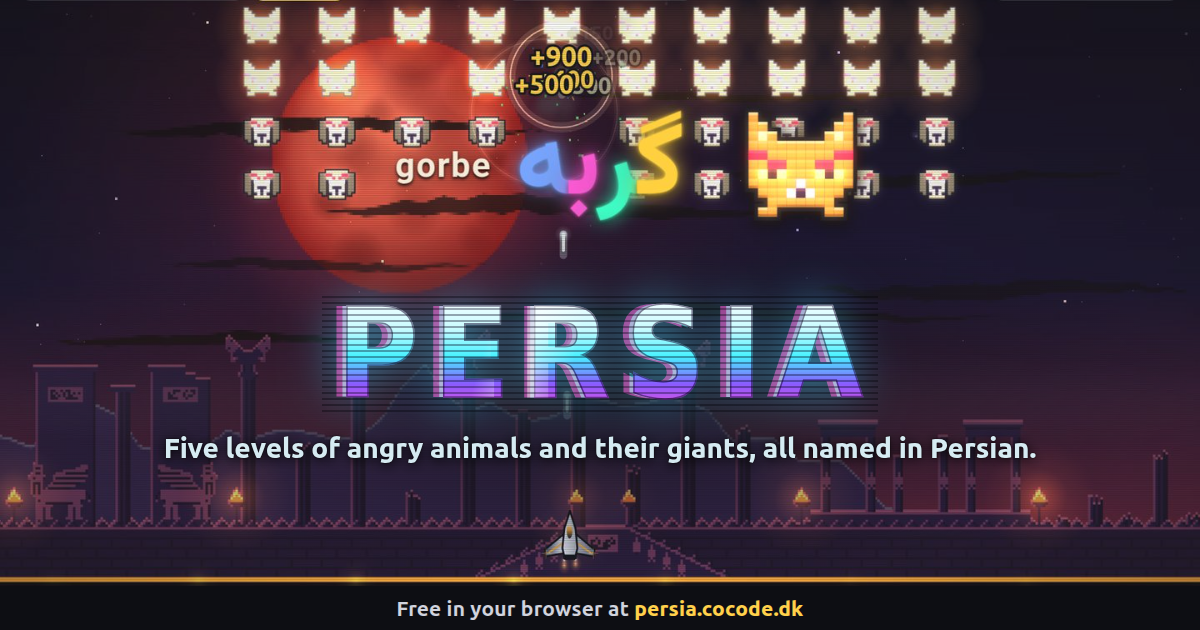
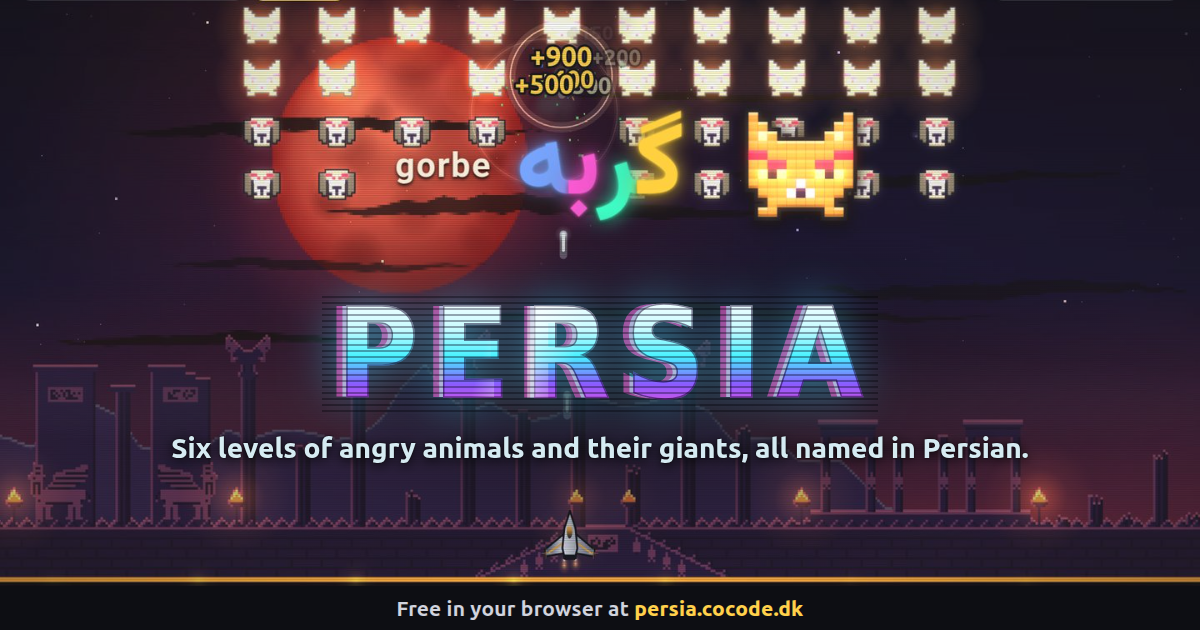
docs: the README, llms.txt, page and social card name six levels

Changed region(s): [[0.1233, 0.6937, 0.8633, 0.754]]

diff --git a/index.html b/index.html
@@ -9,21 +9,21 @@
   <meta charset="utf-8">
   <meta name="viewport" content="width=device-width, initial-scale=1">
   <title>Persia: an arcade shooter</title>
-  <meta name="description" content="Free arcade shooter in your browser. Five levels of angry animals, each named in Persian as it arrives, and a giant at the end of each.">
+  <meta name="description" content="Free arcade shooter in your browser. Six levels of angry animals, each named in Persian as it arrives, and a giant at the end of each.">
   <meta name="robots" content="index, follow">
   <meta name="theme-color" content="#05060b">
   <meta name="color-scheme" content="dark">
   <meta property="og:type" content="website">
   <meta property="og:site_name" content="Persia">
   <meta property="og:title" content="Persia: an arcade shooter">
-  <meta property="og:description" content="Shoot down waves of angry animals and five giants: a cat, a mouse, a fish, a bird and a cow. You hear each animal's name in Persian when it shows up. Free in your browser.">
+  <meta property="og:description" content="Shoot down waves of angry animals and six giants: a cat, a mouse, a fish, a bird, a cow and a dog. You hear each animal's name in Persian when it shows up. Free in your browser.">
   <meta property="og:image:width" content="1200">
   <meta property="og:image:height" content="630">
   <meta property="og:image:alt" content="The PERSIA logo under a formation of angry pixel cats and dogs, a blood-red moon over the ruins of Persepolis, and a Persian word with each letter in its own colour">
   <meta property="og:locale" content="en_US">
   <meta name="twitter:card" content="summary_large_image">
   <meta name="twitter:title" content="Persia: an arcade shooter">
-  <meta name="twitter:description" content="Shoot down waves of angry animals and five giants: a cat, a mouse, a fish, a bird and a cow. You hear each animal's name in Persian when it shows up. Free in your browser.">
+  <meta name="twitter:description" content="Shoot down waves of angry animals and six giants: a cat, a mouse, a fish, a bird, a cow and a dog. You hear each animal's name in Persian when it shows up. Free in your browser.">
   <meta name="twitter:image:alt" content="The PERSIA logo under a formation of angry pixel cats and dogs, a blood-red moon over the ruins of Persepolis, and a Persian word with each letter in its own colour">
   <link rel="canonical" href="https://persia.cocode.dk/">
   <meta property="og:url" content="https://persia.cocode.dk/">
@@ -34,7 +34,7 @@
     "@context": "https://schema.org",
     "@type": "VideoGame",
     "name": "Persia",
-    "description": "Free arcade shooter in your browser. Five levels of angry animals, each named in Persian as it arrives, and a giant at the end of each.",
+    "description": "Free arcade shooter in your browser. Six levels of angry animals, each named in Persian as it arrives, and a giant at the end of each.",
     "url": "https://persia.cocode.dk/",
     "image": "https://persia.cocode.dk/og.png",
     "genre": ["Shooter", "Arcade"],

diff --git a/og.html b/og.html
@@ -50,7 +50,7 @@
     <h1 class="logo">
       <span class="logo-glow">PERSIA</span><span class="logo-chroma c1">PERSIA</span><span class="logo-chroma c2">PERSIA</span><span class="logo-text">PERSIA</span><span class="logo-shine">PERSIA</span>
     </h1>
-    <p class="tagline">Five levels of angry animals and their giants, all named in Persian.</p>
+    <p class="tagline">Six levels of angry animals and their giants, all named in Persian.</p>
   </div>
   <div class="bar"><p class="play">Free in your browser at <b>persia.cocode.dk</b></p></div>
 </body>

diff --git a/README.md b/README.md
@@ -6,21 +6,21 @@ Persia is an arcade shooter for a laptop, played with keyboard and mouse in your
 
 ## What it is
 
-You fly a ship along the bottom of the screen and shoot angry pixel animals. There are five levels of five waves each, and a wave is a group of enemies that flies in together. Level 1 plays over the ruins of Persepolis. There you meet a dog, a cow, a rabbit, a bird, a cat, a horse and a fish, and after wave 5 a giant cat arrives as the boss. Level 2 plays at night over Si-o-se-pol, the bridge of thirty-three arches in Isfahan. Its waves count on from 6 to 10, a mouse joins the animals, and the boss is a giant mouse. Level 3 plays at the Tomb of Hafez in Shiraz, among cypresses and orange trees. Its waves count on from 11 to 15, all eight animals fly, and the boss is a giant fish. Level 4 plays at the Azadi Tower in Tehran. Its waves count on from 16 to 20, birds fill the sky, rain starts falling at wave 18, and the boss is a giant bird. Level 5 plays at the Tomb of Cyrus at Pasargadae, at night. Its waves count on from 21 to 25, cows fill more rows, stars start falling at wave 23, and the boss is a giant cow. All five levels are open from the start. The title screen shows them as cards side by side, each with a small picture of its place and the place's name.
+You fly a ship along the bottom of the screen and shoot angry pixel animals. There are six levels of five waves each, and a wave is a group of enemies that flies in together. Level 1 plays over the ruins of Persepolis. There you meet a dog, a cow, a rabbit, a bird, a cat, a horse and a fish, and after wave 5 a giant cat arrives as the boss. Level 2 plays at night over Si-o-se-pol, the bridge of thirty-three arches in Isfahan. Its waves count on from 6 to 10, a mouse joins the animals, and the boss is a giant mouse. Level 3 plays at the Tomb of Hafez in Shiraz, among cypresses and orange trees. Its waves count on from 11 to 15, all eight animals fly, and the boss is a giant fish. Level 4 plays at the Azadi Tower in Tehran. Its waves count on from 16 to 20, birds fill the sky, rain starts falling at wave 18, and the boss is a giant bird. Level 5 plays at the Tomb of Cyrus at Pasargadae, at night. Its waves count on from 21 to 25, cows fill more rows, stars start falling at wave 23, and the boss is a giant cow. Level 6 plays among the windcatchers of Yazd at night. Its waves count on from 26 to 30, dogs fill more rows than in any level before, flower petals start falling at wave 28, and the boss is a giant dog. All six levels are open from the start. The title screen shows them as cards side by side, each with a small picture of its place and the place's name.
 
-You have three lives. Lose all three and the level starts again from its first wave. Beat the boss and that level's animals parade past, each named once. Then you see your score, with Next (after levels 1, 2, 3 and 4), Again and Title.
+You have three lives. Lose all three and the level starts again from its first wave. Beat the boss and that level's animals parade past, each named once. Then you see your score, with Next (after levels 1 to 5), Again and Title.
 
 The first time you start a level after the page loads, a short film-style opening runs. Press any key after the first second to skip it. Reloading the page brings it back.
 
-A voice speaks Persian as things happen. It says each wave's number as the wave starts, and each animal's name the first time that animal appears in a wave. In level 4 it also says باران (baran, rain) when the rain starts, and in level 5 ستاره (setare, star) when the stars start. Whatever it says also shows on screen for about a second:
+A voice speaks Persian as things happen. It says each wave's number as the wave starts, and each animal's name the first time that animal appears in a wave. In level 4 it also says باران (baran, rain) when the rain starts, in level 5 ستاره (setare, star) when the stars start, and in level 6 گل (gol, flower) when the petals start. Whatever it says also shows on screen for about a second:
 
 - the Persian word, each letter in its own colour (for a wave number, its Persian digits);
 - the same word in Latin letters beside it while it is said, so the cat shows گربه next to "gorbe";
 - for an animal, its face drawn big.
 
-There are no captions or translations. The menus are in English, and so is the score in levels 1 and 2. In levels 2 to 5 the wave count at the top of the screen is in Persian digits, in levels 3 to 5 so is the score, and in levels 4 and 5 the combo and the level's own number are too. In level 5 the giant's name bar at the top reads گاو (gav) instead of GIANT COW.
+There are no captions or translations. The menus are in English, and so is the score in levels 1 and 2. In levels 2 to 6 the wave count at the top of the screen is in Persian digits, in levels 3 to 6 so is the score, and in levels 4 to 6 the combo and the level's own number are too. In levels 5 and 6 the giant's name bar at the top reads its Persian name, گاو (gav) for the cow and سگ (sag) for the dog, instead of GIANT COW or GIANT DOG. In level 6 the wave line itself is Persian: it reads موج (mowj, wave) and the count, right to left.
 
-Persia is forked from [Invaders](https://github.com/cocodedk/invaders), Babak Bandpey's own arcade shooter, and cut down to what these five levels run.
+Persia is forked from [Invaders](https://github.com/cocodedk/invaders), Babak Bandpey's own arcade shooter, and cut down to what these six levels run.
 
 ## How to play
 
@@ -45,7 +45,7 @@ You need Python 3, or any other static file server.
 
 1. Open a terminal in the project folder (`git clone https://github.com/cocodedk/persia-game.git` if you don't have it yet).
 2. Run `python3 -m http.server 8000`. It prints that it is serving on port 8000.
-3. Open http://localhost:8000/ in your browser. You should see the PERSIA title screen with five level cards, Level 1 to Level 5.
+3. Open http://localhost:8000/ in your browser. You should see the PERSIA title screen with six level cards, Level 1 to Level 6.
 
 Browsers do not run module scripts from a `file://` address, so double-clicking `index.html` will not work. There are no dependencies, no build step and no network requests while you play.
 
@@ -65,7 +65,7 @@ The design spec and the build plan are in `docs/superpowers/`.
 
 ## Voice clips
 
-There are thirty-five clips, in `public/audio/`: the eight animal names, the numbers one to twenty-five, and the words for rain and star. They come from the [Danish-Persian-Lessons](https://github.com/cocodedk/Danish-Persian-Lessons) repository. Nothing is generated while you play. Each clip was made ahead of time with the Piper voice model `fa_IR-ganji-medium`, and a native Persian reviewer approved it before it was added. A new clip needs a new review.
+There are forty-one clips, in `public/audio/`: the eight animal names, the numbers one to thirty, and the words for rain, star and flower. They come from the [Danish-Persian-Lessons](https://github.com/cocodedk/Danish-Persian-Lessons) repository. Nothing is generated while you play. Each clip was made ahead of time with the Piper voice model `fa_IR-ganji-medium`, and a native Persian reviewer approved it before it was added. A new clip needs a new review.
 
 `public/audio/manifest.json` records, for every clip, the text it speaks, the voice model and its checksum, the engine version, the reviewer and the clip's own SHA-256 checksum. The script that copied the clips in, `scripts/lift-clips.mjs`, refuses any clip with no reviewer on record.
 

diff --git a/CLAUDE.md b/CLAUDE.md
@@ -3,7 +3,7 @@
 A 2D arcade shooter for a laptop, forked from invaders (`../invaders`), that plays Persian as the
 soundtrack of what happens on screen. It is a game first and never calls itself a lesson. The design
 is `docs/superpowers/specs/2026-10-24-persia-design.md` and the build plan goes in
-`docs/superpowers/plans/`; the spec is the authority. Scope now: world 1 (animals), five levels so far;
+`docs/superpowers/plans/`; the spec is the authority. Scope now: world 1 (animals), six levels so far;
 Babak plays each one before the next is planned. Deploys to `persia.cocode.dk`.
 
 Invaders is the reference architecture: copy and adapt from it, never import across repos. The lessons
